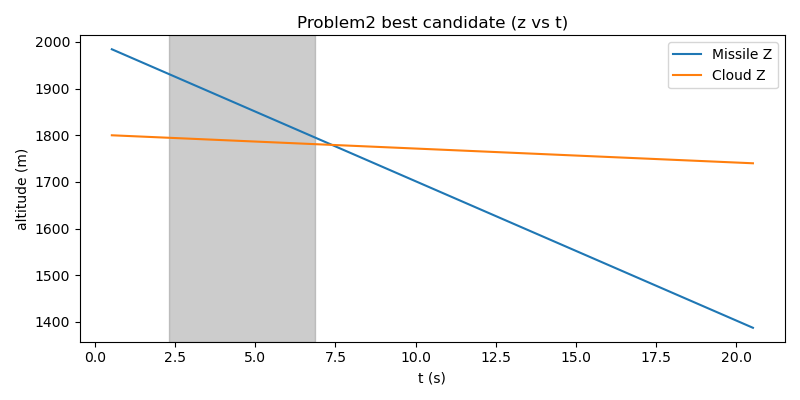
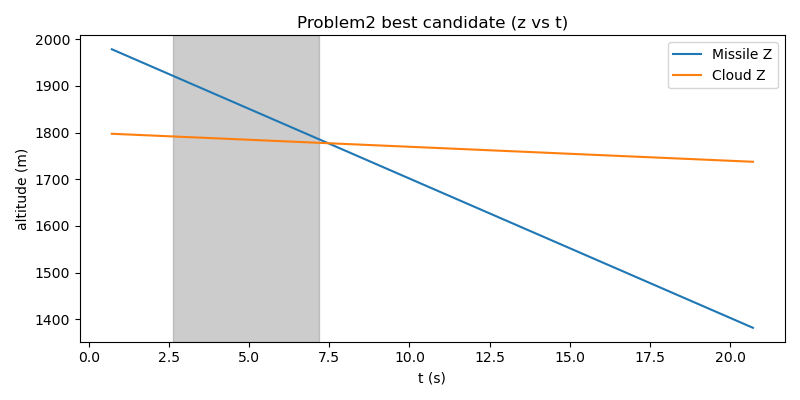
4题

diff --git a/main.py b/main.py
@@ -7,7 +7,7 @@ from typing import List, Tuple, Dict
 # --------------------------
 # Constants from PDF
 # --------------------------
-g = 9.80665  # m/s^2
+g = 9.80  # m/s^2
 cloud_descent_rate = 3.0  # m/s
 cloud_radius = 10.0  # m
 cloud_duration = 20.0  # s
@@ -290,15 +290,11 @@ def total_time(intervals: List[Tuple[float,float]]) -> float:
 # 问题1
 # --------------------------
 def problem1():
-    # speed = 120.0# 无人机速度
-    # t_release = 1.5 # 投放时间
-    # fuse_delay = 3.6 # 引信延时
-    # heading = math.atan2((fake_target - FY_pos["FY1"])[1], (fake_target - FY_pos["FY1"])[0])
-    
-    speed = 70
-    t_release = 0
-    fuse_delay = 0.16263117807177294
-    heading = 120 * math.pi / 180.0
+    speed = 120.0# 无人机速度
+    t_release = 1.5 # 投放时间
+    fuse_delay = 3.6 # 引信延时
+    heading = math.atan2((fake_target - FY_pos["FY1"])[1], (fake_target - FY_pos["FY1"])[0])
+
     # 计算引爆位置和时间
     v_uav = uav_velocity_from_heading(speed, heading)
     t_expl, expl_pos = explosion_position(FY_pos["FY1"], v_uav, t_release, fuse_delay)
@@ -322,7 +318,7 @@ def problem2_pso_optimize(
     heading_span=math.pi*2/3,
     uav_name="FY1",
     iter_num=100,
-    pop_size=20
+    pop_size=100
 ):
     base_heading = math.atan2((fake_target - FY_pos[uav_name])[1], (fake_target - FY_pos[uav_name])[0])
     # heading_min = base_heading - heading_span / 2
@@ -386,7 +382,7 @@ def problem3_pso_FY1_three(
     heading_max = math.pi
     speed_min, speed_max = uav_speed_bounds
     t_release_min, t_release_max = 0.0, 70.0
-    fuse_min, fuse_max = 0.0, 40.0  # avoid fuse=0
+    fuse_min, fuse_max = 0.0, 40.0
 
     dim = 8  # heading, speed, t_release1, fuse1, t_release2, fuse2, t_release3, fuse3
     x_max = np.array([heading_max, speed_max, t_release_max, fuse_max, t_release_max, fuse_max, t_release_max, fuse_max])
@@ -534,59 +530,165 @@ def problem3_pso_FY1_three(
         df.to_excel(writer, sheet_name="drops", index=False)
         df_summary.to_excel(writer, sheet_name="summary", index=False)
     return best_plan
-
 # --------------------------
 # Problem 4: FY1,FY2,FY3 each drop 1 munition to interfere M1
-# Strategy: for each UAV find best single drop (heading+speed+t_release+fuse) greedily to maximize union.
+# PSO: optimize heading, speed, t_release, fuse_delay for FY1, FY2, FY3 in one PSO to maximize joint union shielding
+# Constraints: respect physical bounds and joint shielding computation
 # --------------------------
-def problem4_three_uavs_one_each(
-    uav_names=("FY1","FY2","FY3"),
-    heading_span=math.pi/2, heading_steps=7, speed_steps=4,
-    t_release_grid=None, fuse_grid=None, dt_coarse=0.05, dt_refine=0.01
+def problem4_pso_three_uavs_one_each(
+    uav_names=("FY1", "FY2", "FY3"),
+    heading_span=math.pi/2,
+    iter_num=500,  # increased for 12D optimization
+    pop_size=1000,   # increased for 12D optimization
+    dt_refine=0.01
 ):
-    if t_release_grid is None:
-        t_release_grid = np.linspace(0.0, 70.0, 71)
-    if fuse_grid is None:
-        fuse_grid = np.linspace(0.5, 40.0, 40)
+    """
+    Return best plan for FY1, FY2, FY3 to each drop 1 munition to maximize M1 shielding using a single PSO.
+    """
+    # Define bounds for all 12 variables
+    base_headings = [math.atan2((fake_target - FY_pos[uav])[1], (fake_target - FY_pos[uav])[0]) for uav in uav_names]
+    heading_mins = -math.pi * np.ones(3)  # allow full circle headings
+    heading_maxs = math.pi * np.ones(3)
+    speed_min, speed_max = uav_speed_bounds
+    t_release_min, t_release_max = 0.0, 70.0
+    fuse_min, fuse_max = 0, 40.0  # avoid fuse=0
 
+    dim = 12  # 4 vars per UAV: heading, speed, t_release, fuse_delay
+    x_max = np.array([heading_maxs[0], speed_max, t_release_max, fuse_max,
+                     heading_maxs[1], speed_max, t_release_max, fuse_max,
+                     heading_maxs[2], speed_max, t_release_max, fuse_max])
+    x_min = np.array([heading_mins[0], speed_min, t_release_min, fuse_min,
+                     heading_mins[1], speed_min, t_release_min, fuse_min,
+                     heading_mins[2], speed_min, t_release_min, fuse_min])
+    max_vel = (x_max - x_min) / 2
+
+    # Joint shielding function
+    def joint_shield_time(explosions, dt_sample=dt_refine, radius=cloud_radius):
+        if not explosions:
+            return 0.0
+        min_t = min(t_expl for t_expl, _ in explosions)
+        max_t = max(t_expl + cloud_duration for t_expl, _ in explosions)
+        times = np.arange(min_t, max_t + dt_sample/2, dt_sample)
+        if times.size == 0:
+            return 0.0
+        surface_points = sample_cylinder_surface(true_target, real_target_radius, real_target_height)
+        flags = np.zeros(len(times), dtype=bool)
+        for i, t in enumerate(times):
+            m_pos = missile_pos(M1_pos0, t)
+            active_clouds = [cloud_center_at(t, expl_pos, t_expl) for t_expl, expl_pos in explosions if t_expl <= t < t_expl + cloud_duration]
+            if not active_clouds:
+                continue
+            all_shielded = True
+            for q in surface_points:
+                shielded = any(segment_sphere_intersect_single(m_pos, q, c_pos, radius) for c_pos in active_clouds)
+                if not shielded:
+                    all_shielded = False
+                    break
+            flags[i] = all_shielded
+        # Compute rough intervals
+        intervals = []
+        in_seg = False
+        start = None
+        for i, t in enumerate(times):
+            if flags[i] and not in_seg:
+                in_seg = True
+                start = t
+            if not flags[i] and in_seg:
+                in_seg = False
+                intervals.append((start, times[i-1]))
+        if in_seg:
+            intervals.append((start, times[-1]))
+        # Refine intervals with binary search
+        refined = []
+        for s, e in intervals:
+            left = max(min_t, s - dt_sample)
+            right = s
+            for _ in range(25):
+                mid = 0.5 * (left + right)
+                m_pos = missile_pos(M1_pos0, mid)
+                active_clouds = [cloud_center_at(mid, expl_pos, t_expl) for t_expl, expl_pos in explosions if t_expl <= mid < t_expl + cloud_duration]
+                all_shielded = True
+                for q in surface_points:
+                    shielded = any(segment_sphere_intersect_single(m_pos, q, c_pos, radius) for c_pos in active_clouds)
+                    if not shielded:
+                        all_shielded = False
+                        break
+                if all_shielded:
+                    right = mid
+                else:
+                    left = mid
+            s_ref = right
+            left = e
+            right = min(max_t, e + dt_sample)
+            for _ in range(25):
+                mid = 0.5 * (left + right)
+                m_pos = missile_pos(M1_pos0, mid)
+                active_clouds = [cloud_center_at(mid, expl_pos, t_expl) for t_expl, expl_pos in explosions if t_expl <= mid < t_expl + cloud_duration]
+                all_shielded = True
+                for q in surface_points:
+                    shielded = any(segment_sphere_intersect_single(m_pos, q, c_pos, radius) for c_pos in active_clouds)
+                    if not shielded:
+                        all_shielded = False
+                        break
+                if all_shielded:
+                    left = mid
+                else:
+                    right = mid
+            e_ref = left
+            if e_ref > s_ref + 1e-9:
+                refined.append((s_ref, e_ref))
+        merged = merge_intervals(refined)
+        return total_time(merged)
+
+    def fitness(x):
+        # Extract parameters for all 3 UAVs
+        h1, s1, tr1, fu1, h2, s2, tr2, fu2, h3, s3, tr3, fu3 = x[0]
+        explosions = []
+        for uav, h, s, tr, fu in zip(uav_names, [h1, h2, h3], [s1, s2, s3], [tr1, tr2, tr3], [fu1, fu2, fu3]):
+            v_uav = uav_velocity_from_heading(s, h)
+            t_expl, expl_pos = explosion_position(FY_pos[uav], v_uav, tr, fu)
+            if expl_pos[2] < 0:
+                return 1e6  # penalty for invalid explosion height
+            explosions.append((t_expl, expl_pos))
+        tot = joint_shield_time(explosions)
+        return -tot  # maximize total shield time
+
+    from pso import PSO
+    pso_solver = PSO(dim, pop_size, iter_num, x_max, x_min, max_vel, tol=-1e9, fitness=fitness, C1=2, C2=2, W=0.5)
+    fit_var_list, best_pos = pso_solver.update_ndim()
+    # Reconstruct best plan
+    h1, s1, tr1, fu1, h2, s2, tr2, fu2, h3, s3, tr3, fu3 = best_pos[0]
     assigned = []
-    union_all = []
-    for uav in uav_names:
-        # search best single drop for this uav given union_all already
-        best_local = None
-        base_heading = math.atan2((fake_target - FY_pos[uav])[1], (fake_target - FY_pos[uav])[0])
-        headings = np.linspace(base_heading - heading_span/2, base_heading + heading_span/2, heading_steps)
-        speeds = np.linspace(uav_speed_bounds[0], uav_speed_bounds[1], speed_steps)
-        for heading in headings:
-            for speed in speeds:
-                v = uav_velocity_from_heading(speed, heading)
-                for tr in t_release_grid:
-                    for fu in fuse_grid:
-                        t_expl, expl_pos = explosion_position(FY_pos[uav], v, tr, fu)
-                        ints = find_shield_intervals_for_explosion(M1_pos0, expl_pos, t_expl, dt_sample=dt_refine)
-                        new_union = merge_intervals(union_all + ints)
-                        new_total = total_time(new_union)
-                        old_total = total_time(union_all)
-                        marginal = new_total - old_total
-                        if (best_local is None) or (marginal > best_local["marginal"]):
-                            best_local = {"uav": uav, "heading":heading, "speed":speed, "t_release":tr, "fuse":fu, "explosion_pos":expl_pos, "intervals":ints, "marginal":marginal, "new_union":new_union}
-        if best_local is not None:
-            assigned.append(best_local)
-            union_all = best_local["new_union"]
-    # save to result2.xlsx
-    rows=[]
+    explosions = []
+    for uav, h, s, tr, fu in zip(uav_names, [h1, h2, h3], [s1, s2, s3], [tr1, tr2, tr3], [fu1, fu2, fu3]):
+        v_uav = uav_velocity_from_heading(s, h)
+        t_expl, expl_pos = explosion_position(FY_pos[uav], v_uav, tr, fu)
+        ints = find_shield_intervals_for_explosion(M1_pos0, expl_pos, t_expl, dt_sample=dt_refine)
+        assigned.append({
+            "uav": uav, "heading": h, "speed": s, "t_release": tr, "fuse": fu,
+            "t_explosion": t_expl, "explosion_pos": expl_pos, "intervals": ints
+        })
+        explosions.append((t_expl, expl_pos))
+    total = joint_shield_time(explosions)
+    union_all = merge_intervals([i for a in assigned for i in a["intervals"]])  # Recompute union for consistency
+
+    # Save to result2.xlsx
+    rows = []
     for a in assigned:
         rows.append({
-            "uav": a["uav"], "t_release":a["t_release"], "fuse_delay":a["fuse"], "t_explosion": a["t_release"]+a["fuse"],
-            "explosion_x": float(a["explosion_pos"][0]), "explosion_y": float(a["explosion_pos"][1]), "explosion_z": float(a["explosion_pos"][2]),
-            "intervals": ";".join([f"{s:.6f}-{e:.6f}" for s,e in a["intervals"]]), "marginal": a["marginal"]
+            "uav": a["uav"], "t_release": a["t_release"], "fuse_delay": a["fuse"],
+            "t_explosion": a["t_explosion"],
+            "explosion_x": float(a["explosion_pos"][0]), "explosion_y": float(a["explosion_pos"][1]),
+            "explosion_z": float(a["explosion_pos"][2]),
+            "intervals": ";".join([f"{s:.6f}-{e:.6f}" for s, e in a["intervals"]]),
+            "marginal": total_time(a["intervals"])  # Approx marginal for each drop
         })
-    df=pd.DataFrame(rows)
-    df_summary = pd.DataFrame([{"total_shield": total_time(union_all)}])
+    df = pd.DataFrame(rows)
+    df_summary = pd.DataFrame([{"total_shield": total}])
     with pd.ExcelWriter("result2.xlsx") as writer:
         df.to_excel(writer, sheet_name="drops", index=False)
         df_summary.to_excel(writer, sheet_name="summary", index=False)
-    return {"assigned":assigned,"union":union_all}
+    return {"assigned": assigned, "union": union_all}
 
 # --------------------------
 # Problem 5: 5 UAVs, each up to 3 munitions, interfere M1,M2,M3
@@ -749,10 +851,10 @@ if __name__ == "__main__":
     # print("\n")
 
     # p2_result = problem2_pso_optimize(
-    #     heading_span=math.pi*2/3,  # 搜索角度范围
+    #     heading_span=math.pi*2/3,
     #     uav_name="FY1",            # 无人机名称
-    #     iter_num=200,              # PSO迭代次数
-    #     pop_size=20                # PSO种群规模
+    #     iter_num=100,              # PSO迭代次数
+    #     pop_size=100                # PSO种群规模
     # )
     # if p2_result:
     #     print("Problem2 best candidate summary:")
@@ -777,9 +879,16 @@ if __name__ == "__main__":
     #     print("Problem2 found no positive candidate.")
     # print("\n")
 
-    result = problem3_pso_FY1_three()
-    print("Problem 3 completed. Results saved to result1.xlsx")
-    print(f"Best total shield time: {result['total']:.6f} s")
-    print(f"Heading: {math.degrees(result['heading']):.2f}°, Speed: {result['speed']:.2f} m/s")
+    # result = problem3_pso_FY1_three()
+    # print("Problem 3 completed. Results saved to result1.xlsx")
+    # print(f"Best total shield time: {result['total']:.6f} s")
+    # print(f"Heading: {math.degrees(result['heading']):.2f}°, Speed: {result['speed']:.2f} m/s")
+    # for drop in result["assigned"]:
+    #     print(f"Drop {drop['drop_idx']}: t_release={drop['t_release']:.2f}s, fuse_delay={drop['fuse_delay']:.2f}s")
+
+
+    result = problem4_pso_three_uavs_one_each()
+    print("Problem 4 completed. Results saved to result2.xlsx")
+    print(f"Total shield time: {result['union']:.6f} s")
     for drop in result["assigned"]:
-        print(f"Drop {drop['drop_idx']}: t_release={drop['t_release']:.2f}s, fuse_delay={drop['fuse_delay']:.2f}s")
+        print(f"UAV {drop['uav']}: t_release={drop['t_release']:.2f}s, fuse_delay={drop['fuse']:.2f}s, intervals={drop['intervals']}")
